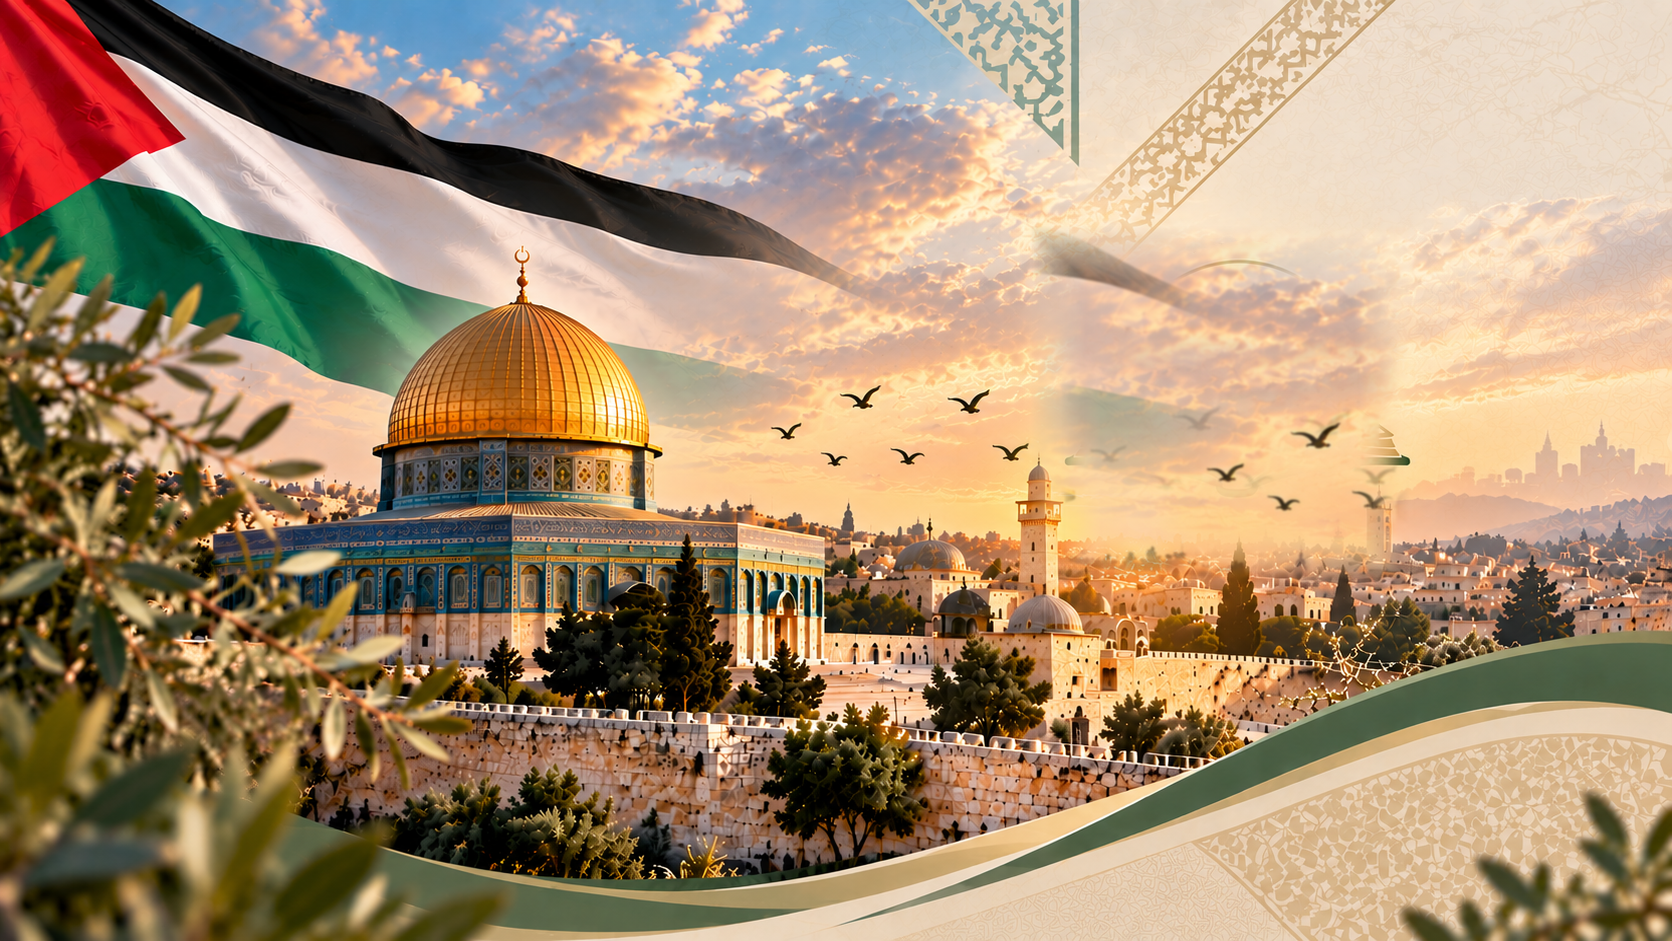
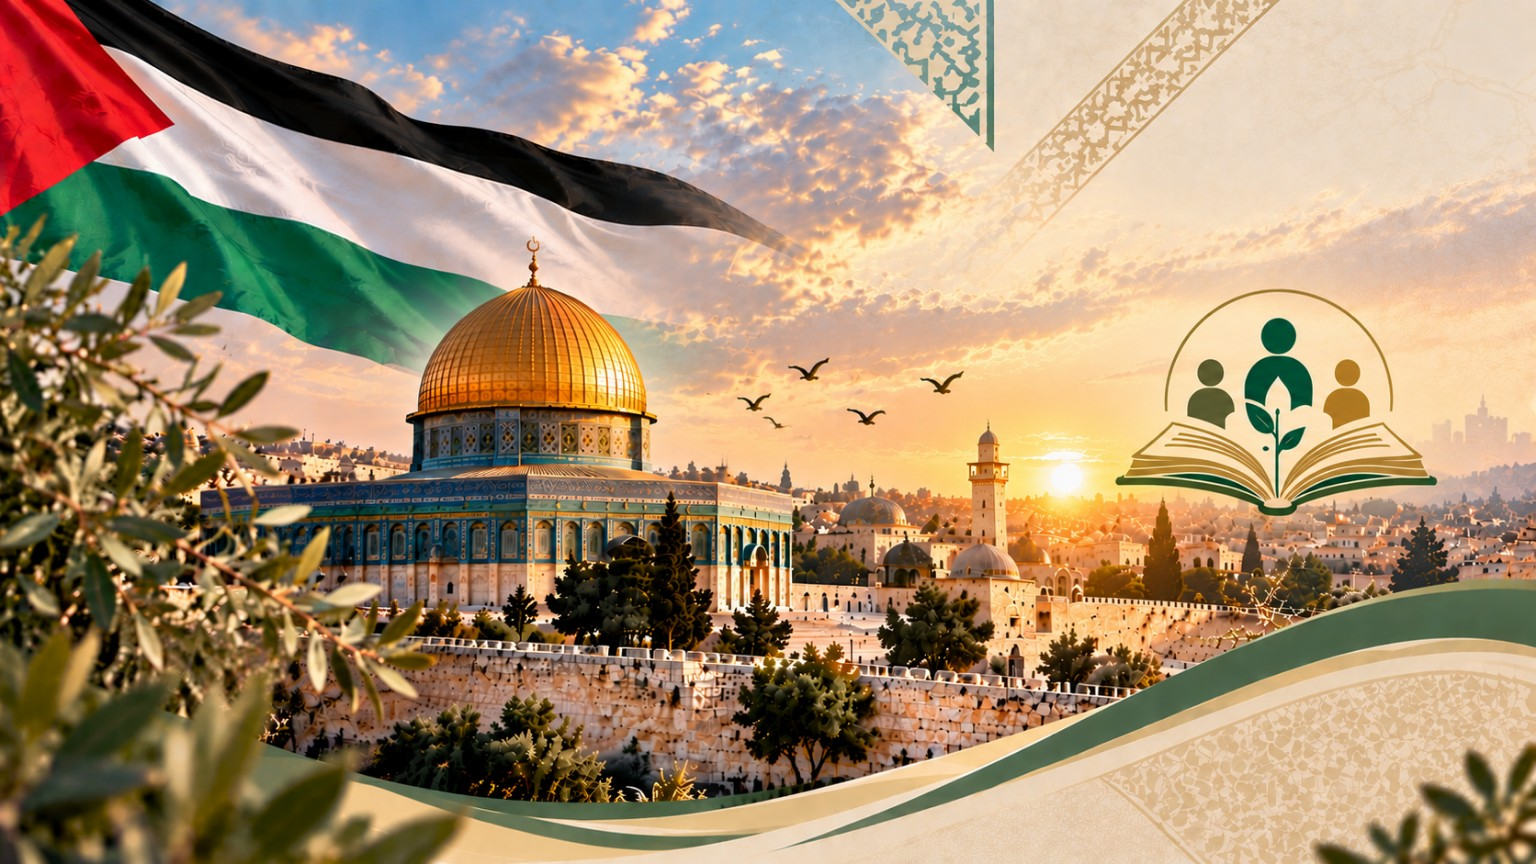
Update login screen responsive layout12

diff --git a/src/styles.css b/src/styles.css
@@ -1364,208 +1364,3 @@ html,body,#root,.shell{max-width:100%;overflow-x:hidden!important}
   .portal-home.login-page .portal-guidance-logo img{width:82px!important}
   .portal-home.login-page .portal-guidance-logo strong{font-size:12px!important}
 }
-
-/* ===== APPROVED MOCKUP MATCH — desktop + mobile 2026-10-05 ===== */
-.portal-home.login-page{
-  min-height:100dvh!important;
-  height:100dvh!important;
-  overflow:hidden!important;
-  display:flex!important;
-  flex-direction:column!important;
-  position:relative!important;
-  background:#c9a979 url('/assets/login-background.png') center center/cover no-repeat!important;
-}
-.portal-home.login-page .portal-home-overlay{
-  position:absolute!important;inset:0!important;z-index:0!important;
-  background:linear-gradient(180deg,rgba(20,18,14,.08),rgba(28,21,16,.08) 55%,rgba(28,21,16,.22))!important;
-  backdrop-filter:none!important;
-}
-.portal-home.login-page .portal-bg-logo-mask{display:none!important}
-.portal-bismillah-top{
-  position:relative!important;z-index:4!important;
-  flex:0 0 auto!important;
-  margin:22px 0 6px!important;
-  text-align:center!important;
-  color:#fff!important;
-  font-size:21px!important;font-weight:800!important;line-height:1.25!important;
-  text-shadow:0 2px 9px rgba(0,0,0,.45)!important;
-}
-.portal-home.login-page .portal-header{
-  position:relative!important;z-index:4!important;
-  flex:0 0 auto!important;width:100%!important;
-  padding:0!important;margin:0!important;
-  display:flex!important;justify-content:center!important;
-}
-.portal-home.login-page .portal-header .portal-brand{
-  margin:0!important;transform:none!important;
-  display:flex!important;flex-direction:column!important;
-  align-items:center!important;justify-content:flex-start!important;
-  gap:0!important;text-align:center!important;color:#fff!important;
-  text-shadow:0 2px 9px rgba(0,0,0,.45)!important;
-}
-.portal-home.login-page .portal-brand img{
-  width:64px!important;height:64px!important;
-  margin:0 0 3px!important;object-fit:contain!important;
-  filter:drop-shadow(0 3px 8px rgba(0,0,0,.28))!important;
-}
-.portal-home.login-page .portal-brand div{
-  display:flex!important;flex-direction:column!important;
-  align-items:center!important;line-height:1.2!important;
-}
-.portal-home.login-page .portal-brand strong{font-size:13px!important;font-weight:900!important}
-.portal-home.login-page .portal-brand span{font-size:15px!important;font-weight:900!important}
-.portal-home.login-page .portal-content{
-  position:relative!important;z-index:4!important;
-  flex:1 1 auto!important;min-height:0!important;
-  width:min(760px,92vw)!important;
-  margin:0 auto!important;padding:8px 0 0!important;
-  display:flex!important;flex-direction:column!important;
-  align-items:center!important;justify-content:center!important;
-  text-align:center!important;
-}
-.portal-home.login-page .portal-welcome{
-  width:100%!important;max-width:700px!important;
-  margin:0 0 16px!important;padding:0!important;
-  text-shadow:0 2px 10px rgba(0,0,0,.48)!important;
-}
-.portal-home.login-page .portal-welcome h1{
-  margin:0 0 5px!important;color:#fff!important;
-  font-size:31px!important;line-height:1.25!important;font-weight:900!important;
-}
-.portal-home.login-page .portal-welcome p{
-  margin:0!important;color:#fffdf8!important;
-  font-size:13px!important;line-height:1.65!important;
-}
-.portal-home.login-page .portal-login-card{
-  width:min(400px,100%)!important;
-  padding:24px 24px 22px!important;
-  border-radius:25px!important;
-  background:rgba(255,253,249,.96)!important;
-  border:1px solid rgba(255,255,255,.86)!important;
-  box-shadow:0 25px 70px rgba(45,30,18,.30)!important;
-  color:#352b24!important;
-  backdrop-filter:blur(9px)!important;
-}
-.portal-home.login-page .portal-login-title{
-  display:flex!important;align-items:center!important;justify-content:center!important;
-  gap:10px!important;margin-bottom:14px!important;text-align:center!important;
-}
-.portal-home.login-page .portal-login-icon{
-  width:43px!important;height:43px!important;border-radius:13px!important;
-  background:#eee3d7!important;color:#704d35!important;
-}
-.portal-home.login-page .portal-login-title span{font-size:10px!important;color:#876b54!important;font-weight:800!important}
-.portal-home.login-page .portal-login-title h2{font-size:24px!important;line-height:1.2!important;margin:1px 0 0!important;color:#352b24!important}
-.portal-home.login-page .portal-login-form{display:grid!important;gap:11px!important}
-.portal-home.login-page .portal-login-form .field{margin:0!important;text-align:right!important}
-.portal-home.login-page .portal-login-form .field>span{display:block!important;margin-bottom:6px!important;font-size:12px!important;font-weight:800!important;color:#58483a!important}
-.portal-home.login-page .portal-login-card .field input,
-.portal-home.login-page .portal-password-wrap input{
-  width:100%!important;box-sizing:border-box!important;
-  min-height:48px!important;padding:0 13px!important;
-  border:1px solid #dfd4c9!important;border-radius:12px!important;
-  background:#fff!important;color:#352b24!important;font-size:13px!important;
-}
-.portal-home.login-page .portal-password-wrap{position:relative!important}
-.portal-home.login-page .portal-password-wrap input{padding-left:45px!important}
-.portal-home.login-page .portal-password-wrap button{
-  position:absolute!important;left:8px!important;top:50%!important;
-  transform:translateY(-50%)!important;width:34px!important;height:34px!important;
-  display:grid!important;place-items:center!important;padding:0!important;
-  border:0!important;background:transparent!important;color:#765238!important;
-}
-.portal-home.login-page .portal-login-card .btn{
-  width:100%!important;min-height:48px!important;border-radius:12px!important;
-  background:linear-gradient(135deg,#8a5b35,#5e3c25)!important;
-  color:#fff!important;font-size:14px!important;font-weight:800!important;
-}
-.portal-home.login-page .portal-guidance-logo{
-  display:flex!important;flex-direction:column!important;align-items:center!important;
-  justify-content:center!important;margin:13px auto 0!important;
-  color:#075d54!important;text-align:center!important;
-  text-shadow:0 1px 5px rgba(255,248,230,.7)!important;
-}
-.portal-home.login-page .portal-guidance-logo img{
-  width:122px!important;height:auto!important;display:block!important;
-}
-.portal-home.login-page .portal-guidance-logo strong{
-  margin-top:-4px!important;font-size:15px!important;font-weight:900!important;
-}
-.portal-home.login-page .public-site-footer{
-  position:relative!important;z-index:5!important;flex:0 0 auto!important;
-  width:min(900px,92vw)!important;margin:0 auto 13px!important;
-  padding:10px 14px!important;border-radius:17px!important;
-  background:rgba(55,39,27,.70)!important;
-  border:1px solid rgba(255,255,255,.20)!important;
-  backdrop-filter:blur(9px)!important;
-}
-.portal-home.login-page .public-site-footer .site-footer-links a{
-  background:rgba(255,255,255,.96)!important;
-  border-color:rgba(255,255,255,.6)!important;
-}
-.portal-home.login-page .public-site-footer .footer-email svg{color:#a94444!important}
-.portal-home.login-page .public-site-footer .footer-facebook svg{color:#1877f2!important}
-.portal-home.login-page .public-site-footer .footer-linkedin svg{color:#0a66c2!important}
-.portal-home.login-page .public-site-footer .footer-whatsapp svg{color:#25d366!important}
-.portal-home.login-page .public-site-footer .site-footer-copy svg{color:#e4bf8a!important}
-
-@media(max-width:700px){
-  .portal-home.login-page{
-    background-position:42% center!important;
-    background-size:auto 100%!important;
-  }
-  .portal-bismillah-top{
-    margin:10px 0 5px!important;font-size:15px!important;
-  }
-  .portal-home.login-page .portal-brand img{width:50px!important;height:50px!important;margin-bottom:2px!important}
-  .portal-home.login-page .portal-brand strong{font-size:10px!important}
-  .portal-home.login-page .portal-brand span{font-size:12px!important}
-  .portal-home.login-page .portal-content{
-    width:min(92vw,390px)!important;
-    padding:8px 0 0!important;
-    justify-content:center!important;
-  }
-  .portal-home.login-page .portal-welcome{margin-bottom:13px!important}
-  .portal-home.login-page .portal-welcome h1{font-size:21px!important;line-height:1.35!important;margin-bottom:5px!important}
-  .portal-home.login-page .portal-welcome p{font-size:10px!important;line-height:1.65!important}
-  .portal-home.login-page .portal-login-card{
-    width:100%!important;padding:22px 18px 20px!important;border-radius:23px!important;
-  }
-  .portal-home.login-page .portal-login-title{margin-bottom:12px!important}
-  .portal-home.login-page .portal-login-icon{width:42px!important;height:42px!important}
-  .portal-home.login-page .portal-login-title h2{font-size:23px!important}
-  .portal-home.login-page .portal-login-title span{font-size:10px!important}
-  .portal-home.login-page .portal-login-form{gap:10px!important}
-  .portal-home.login-page .portal-login-form .field>span{font-size:11px!important;margin-bottom:5px!important}
-  .portal-home.login-page .portal-login-card .field input,
-  .portal-home.login-page .portal-password-wrap input{min-height:47px!important;font-size:12px!important}
-  .portal-home.login-page .portal-login-card .btn{min-height:47px!important;font-size:13px!important}
-  .portal-home.login-page .portal-guidance-logo{margin-top:12px!important}
-  .portal-home.login-page .portal-guidance-logo img{width:104px!important}
-  .portal-home.login-page .portal-guidance-logo strong{font-size:14px!important}
-  .portal-home.login-page .public-site-footer{
-    width:94vw!important;margin:0 auto 7px!important;padding:8px!important;border-radius:15px!important;
-  }
-  .portal-home.login-page .public-site-footer .site-footer-links{gap:6px!important;flex-wrap:nowrap!important}
-  .portal-home.login-page .public-site-footer .site-footer-links a{padding:6px!important;min-width:38px!important;justify-content:center!important}
-  .portal-home.login-page .public-site-footer .site-footer-links a span{display:none!important}
-  .portal-home.login-page .public-site-footer .site-footer-brand img{width:32px!important;height:32px!important}
-  .portal-home.login-page .public-site-footer .site-footer-brand strong{font-size:10px!important}
-  .portal-home.login-page .public-site-footer .site-footer-brand span{font-size:8px!important}
-  .portal-home.login-page .public-site-footer .site-footer-copy{font-size:8px!important}
-}
-@media(max-height:760px) and (max-width:700px){
-  .portal-bismillah-top{margin-top:6px!important;font-size:13px!important}
-  .portal-home.login-page .portal-brand img{width:44px!important;height:44px!important}
-  .portal-home.login-page .portal-brand strong{font-size:9px!important}
-  .portal-home.login-page .portal-brand span{font-size:11px!important}
-  .portal-home.login-page .portal-welcome h1{font-size:18px!important}
-  .portal-home.login-page .portal-welcome p{font-size:9px!important}
-  .portal-home.login-page .portal-welcome{margin-bottom:8px!important}
-  .portal-home.login-page .portal-login-card{padding:15px!important}
-  .portal-home.login-page .portal-login-card .field input,
-  .portal-home.login-page .portal-password-wrap input{min-height:40px!important}
-  .portal-home.login-page .portal-login-card .btn{min-height:40px!important}
-  .portal-home.login-page .portal-guidance-logo img{width:82px!important}
-  .portal-home.login-page .portal-guidance-logo strong{font-size:12px!important}
-}
